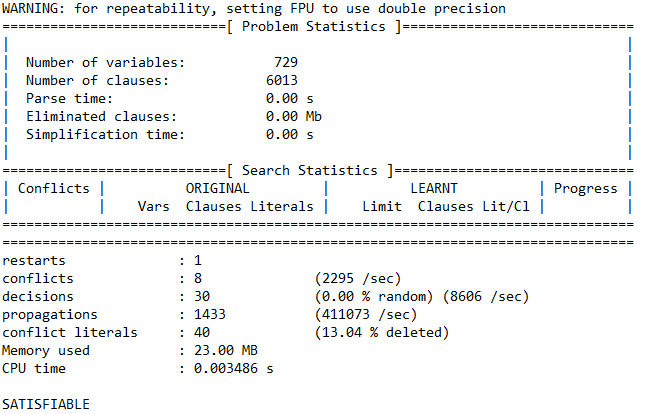
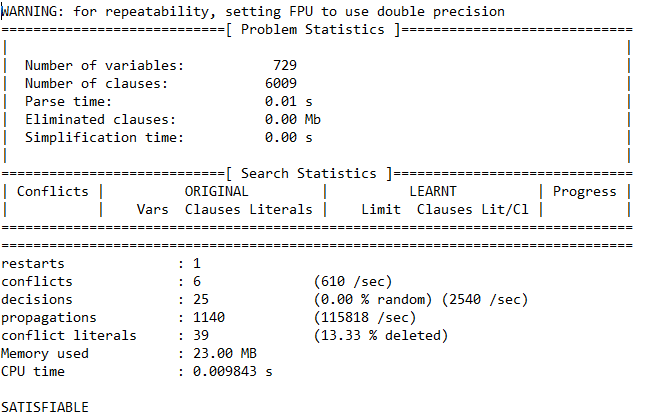
Fixed clause comment Updated extended report

diff --git a/src/main/java/sud2satextended.java b/src/main/java/sud2satextended.java
@@ -34,7 +34,7 @@ public class sud2satextended {
 
     }
 
-    outputList.add("\nc One number in each entry\n");
+    outputList.add("\nc There is at least one number in each entry\n");
     for(int x = 1; x < 10; x++) {
       for(int y = 1; y < 10; y++) {
         for(int z = 1; z < 10; z++) {

diff --git a/src/main/java/sud2sat.java b/src/main/java/sud2sat.java
@@ -32,7 +32,7 @@ public class sud2sat {
 
     }
 
-    outputList.add("\nc One number in each entry\n");
+    outputList.add("\nc There is at least one number in each entry\n");
     for(int x = 1; x < 10; x++) {
       for(int y = 1; y < 10; y++) {
         for(int z = 1; z < 10; z++) {

diff --git a/doc/report/ExtendedReport.md b/doc/report/ExtendedReport.md
@@ -113,10 +113,13 @@ sat2sud Output:
 minisat Statistics:
     
 ![](extended/hardPuzzle4modified.png)
-- As predicted, the removal of the basic rule has reduced the CPU time required to solve this problem.
+- However, our modified run of hardPuzzle4 took us ~3x as much time to complete compared
+to the unmodified run.
+
 - Compared to our unmodified run:
-    - ~64 less clauses
-    - 3 additional conflicts
-    - 2 additional decisions
-    - ~300 additional propagations
-    - ~20 additional conflict literals
+    - 0.01 seconds to parse
+    - 64 less clauses
+    - 3 less conflicts
+    - 2 less decisions
+    - 242 less propagations
+    - 66 less conflict literals
